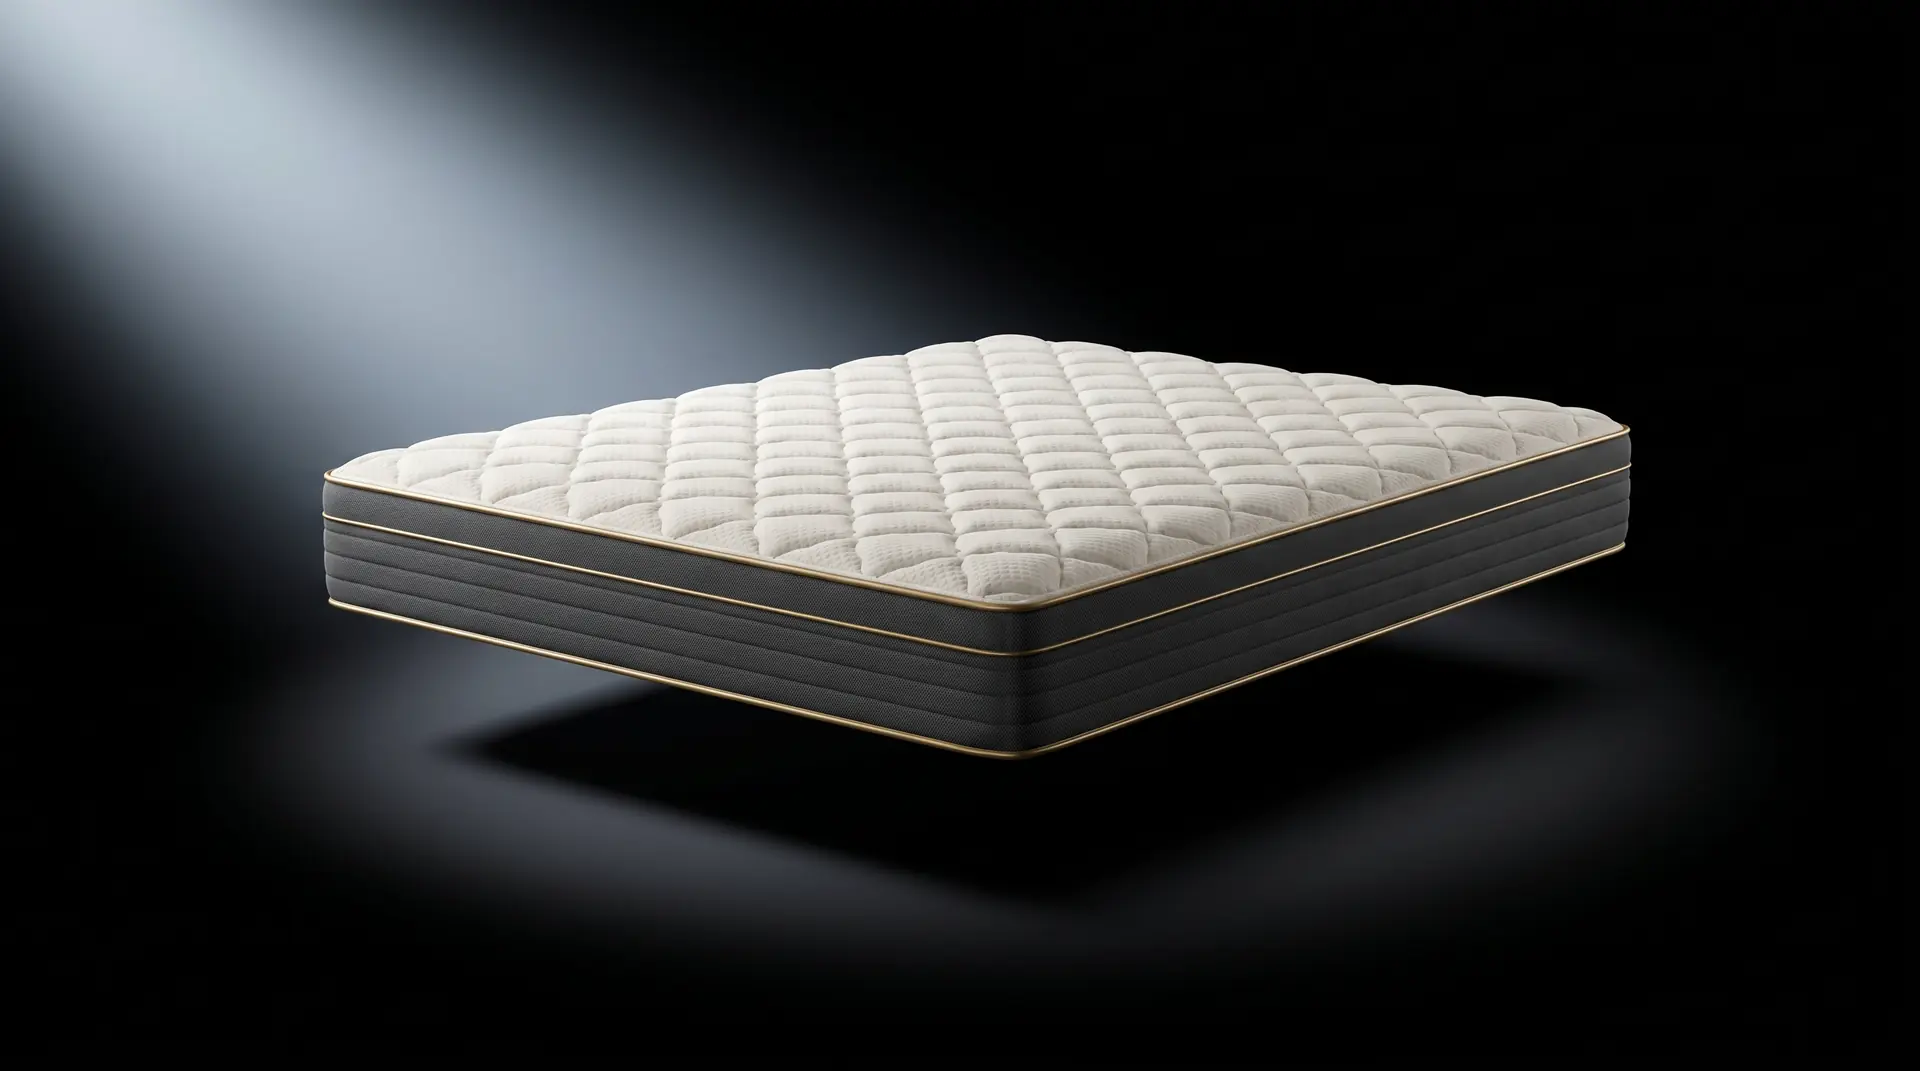
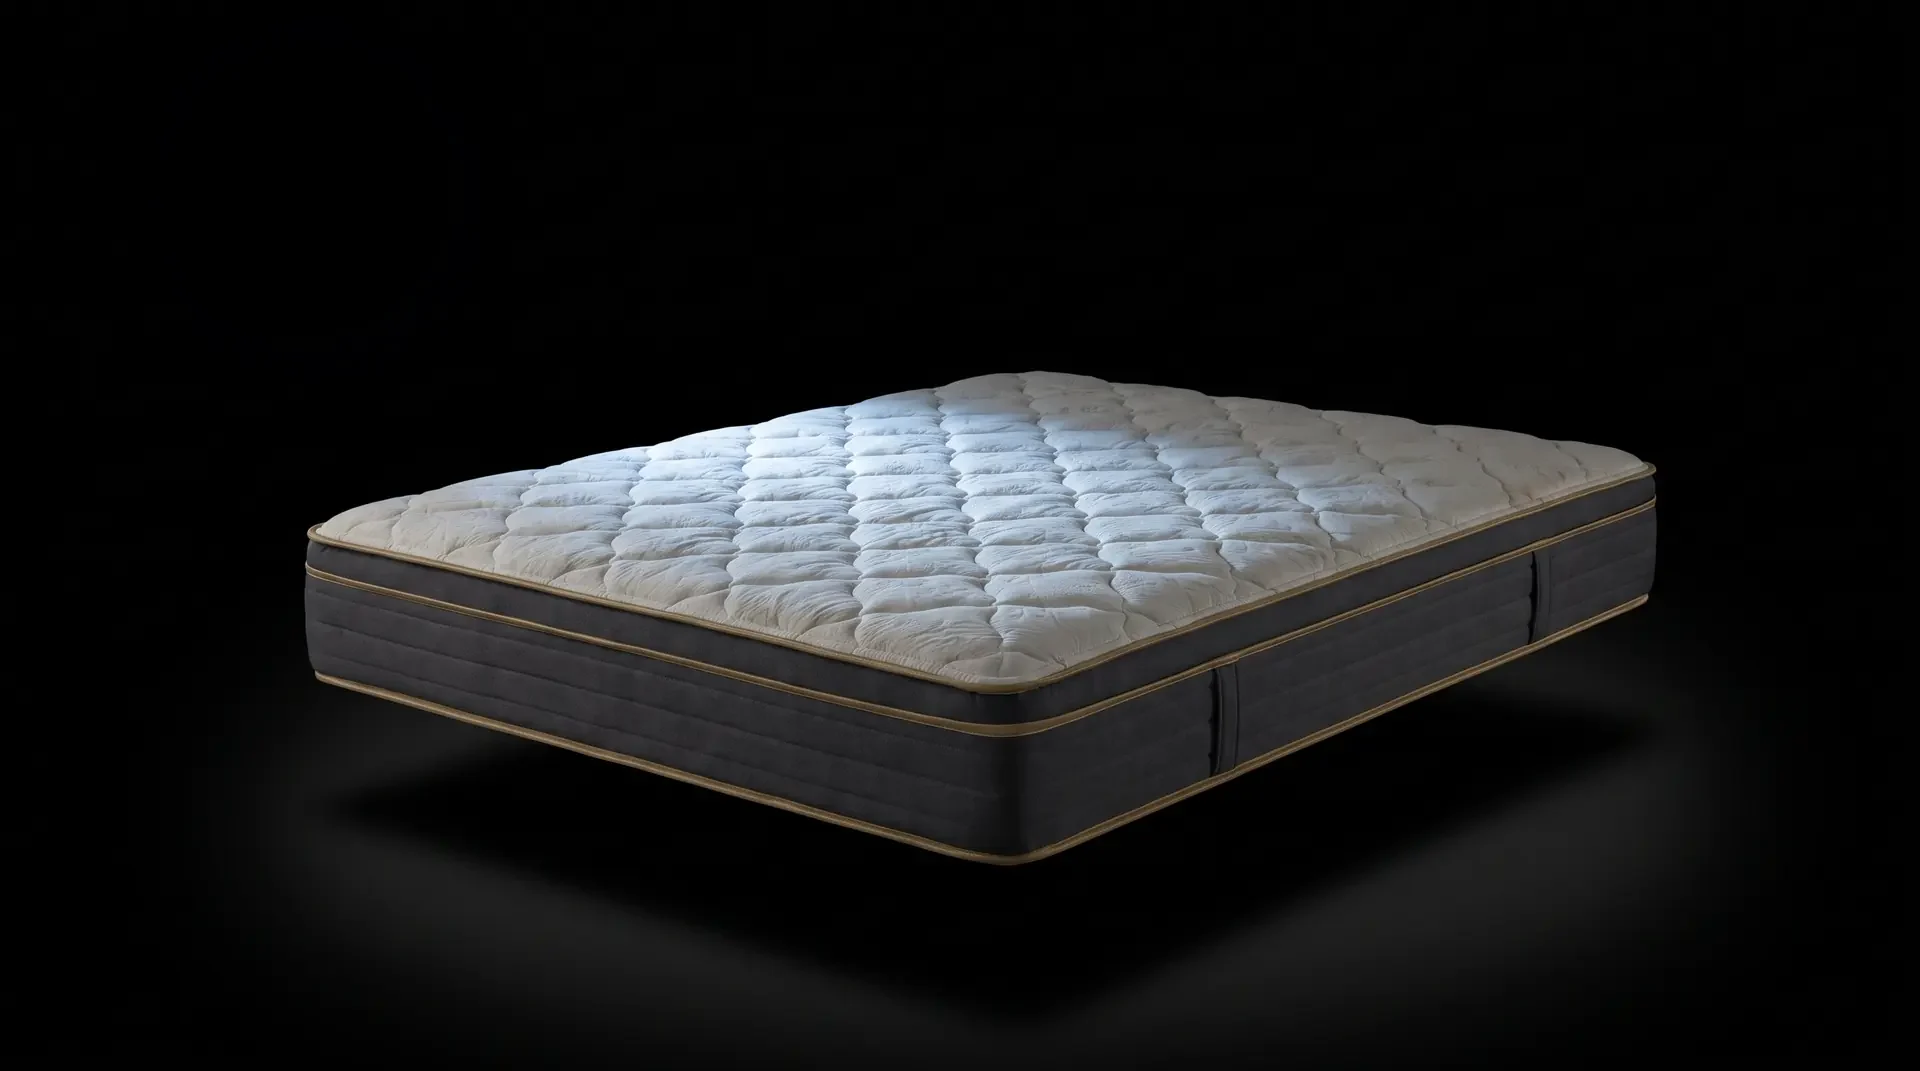
Hero: moon and mattress from one frame, single light axis, press dent
- hero-moon.webp and moon.webp now come from the same Higgsfield shot: the moon
  is cut out with alpha, painted out of the mattress frame, so light on the
  quilting, shadow and moon position agree physically
- one source of truth for the light: --moon-x/--moon-y drive the moon, the
  beam angle (computed to the mattress centre), the light spot and the sheen;
  moon moved to upper-left on mobile to match the baked light direction
- press-dent: pointerdown on the mattress shows a shadowed dent with a cool
  rim toward the moon, follows the pointer while held, elastic return on release
- remove temporary import workflow and img/tmp candidates; README updated

Claude-Session: https://claude.ai/code/session_0121QE7UJEF3LpGs7hpgYDb2

diff --git a/index.html b/index.html
@@ -53,11 +53,11 @@
 
         <!-- продукт: фото проявляется из темноты -->
         <!-- луна и её свет: единственный источник света на входе -->
-        <div class="moon-wrap" id="moonWrap"><span class="moon-glow" id="moonGlow"></span><img class="moon-hero" id="moonHero" src="img/moon.webp" alt="" width="1024" height="1024" decoding="async" fetchpriority="high"></div>
+        <div class="moon-wrap" id="moonWrap"><span class="moon-glow" id="moonGlow"></span><img class="moon-hero" id="moonHero" src="img/moon.webp" alt="" width="260" height="260" decoding="async" fetchpriority="high"></div>
         <div class="moonbeam" id="moonbeam" aria-hidden="true"></div>
         <figure class="product product--hero" id="productHero">
           <div class="product__float">
-            <img src="img/hero-moon.webp" alt="Матрас ELUNA в лунном свете" width="1920" height="1080" decoding="async" fetchpriority="high">
+            <img src="img/hero-moon.webp" alt="Матрас ELUNA в лунном свете" width="1920" height="1071" decoding="async" fetchpriority="high">
             <div class="sheen" id="sheen" aria-hidden="true"></div>
             <div class="dent" id="dent" aria-hidden="true"></div>
           </div>
@@ -230,7 +230,7 @@
         <!-- выбор модели: свет движется к выбранной строке, уровень задаёт силу света -->
         <div class="picker reveal" id="picker">
           <div class="px" id="pxStage" data-lvl="3">
-            <img class="px__moon" src="img/moon.webp" alt="" width="1024" height="1024" loading="lazy" decoding="async">
+            <img class="px__moon" src="img/moon.webp" alt="" width="260" height="260" loading="lazy" decoding="async">
             <div class="px__beam" id="pxBeam" aria-hidden="true"></div>
             <div class="px__floor" aria-hidden="true"></div>
             <figure class="px__item" aria-hidden="true">
@@ -428,7 +428,7 @@
             <svg class="map__lit" viewBox="0 0 1040 578" aria-hidden="true" focusable="false">
               <path d="M619.0 499.7L605.0 506.4L572.7 531.9L562.0 558.1L552.9 558.3L546.2 541.0L515.1 539.8L510.2 509.8L498.2 509.6L500.1 472.9L470.8 446.2L428.9 449.1L400.2 454.4L376.8 421.4L356.8 407.6L318.9 381.4L314.3 378.3L251.4 399.9L252.4 534.7L239.8 536.5L222.7 507.8L206.2 497.5L178.4 505.2L167.6 517.3L166.2 508.4L172.2 493.2L167.6 480.4L139.2 468.0L128.2 435.1L114.7 425.9L113.9 414.0L137.7 417.4L138.6 390.7L159.4 384.8L180.8 390.2L185.2 354.6L180.8 332.0L156.3 333.7L135.6 324.8L107.2 340.9L84.4 348.5L72.0 342.6L74.5 323.8L58.9 299.4L40.8 300.4L20.0 275.6L34.1 247.9L27.0 240.4L46.5 200.3L71.6 221.5L74.7 194.8L125.2 155.0L163.4 154.1L217.3 179.4L246.2 194.2L272.2 178.7L310.9 178.0L342.2 197.0L349.3 186.1L383.7 187.7L389.8 170.4L350.2 145.2L373.6 127.4L369.0 117.4L392.5 107.9L374.9 82.9L386.1 70.4L477.6 57.7L489.5 48.7L550.7 35.2L572.7 20.0L616.6 27.9L624.3 65.8L649.9 56.9L681.3 69.3L679.3 89.3L702.7 87.2L764.0 52.7L755.0 64.2L786.2 92.4L840.9 185.3L853.9 166.1L887.6 187.2L922.7 177.8L936.2 184.4L948.0 205.5L965.1 212.6L975.5 228.1L1007.0 223.2L1020.0 245.6L1001.4 269.9L981.1 273.4L979.9 310.0L966.3 326.6L917.8 314.5L900.2 380.0L887.6 388.1L839.2 402.7L861.2 466.2L844.4 475.8L846.4 496.6L831.3 491.2L819.0 478.1L782.8 474.3L742.2 473.3L733.3 477.3L698.5 461.9L684.6 469.5L680.8 491.1L640.6 478.5L624.5 483.6L619.0 499.7Z"/>
             </svg>
-            <div class="moon" aria-hidden="true"><img src="img/moon.webp" alt="" width="1024" height="1024" loading="lazy" decoding="async"></div>
+            <div class="moon" aria-hidden="true"><img src="img/moon.webp" alt="" width="260" height="260" loading="lazy" decoding="async"></div>
             <button type="button" class="city" data-city="Астана" style="--x:60.62%;--y:30.12%" aria-pressed="false" aria-label="Астана: доставка от 7 дней"><i></i><span>Астана</span></button>
             <button type="button" class="city is-on" data-city="Алматы" style="--x:73.60%;--y:80.29%" aria-pressed="true" aria-label="Алматы: доставка от 7 дней"><i></i><span>Алматы</span></button>
             <button type="button" class="city" data-city="Шымкент" style="--x:56.32%;--y:86.23%" aria-pressed="false" aria-label="Шымкент: доставка от 7 дней"><i></i><span>Шымкент</span></button>

diff --git a/js/main.js b/js/main.js
@@ -270,9 +270,16 @@
   window.addEventListener('resize', sizeSeq);
 
   // угол луча: от луны к центру матраса, в системе conic-gradient (0° = вверх, по часовой)
+  // позиция луны (= источника света) берётся из CSS-переменных --moon-x/--moon-y, чтобы ось была одна
+  const MOON = { x: 12, y: 18 };
+  function readMoon() {
+    const cs = getComputedStyle(root);
+    const x = parseFloat(cs.getPropertyValue('--moon-x')), y = parseFloat(cs.getPropertyValue('--moon-y'));
+    if (!Number.isNaN(x)) MOON.x = x; if (!Number.isNaN(y)) MOON.y = y;
+  }
   function aimBeam() {
-    const mob = window.innerWidth < 900;
-    const mx = (mob ? 0.82 : 0.08) * window.innerWidth, my = (mob ? 0.09 : 0.20) * window.innerHeight;
+    readMoon();
+    const mx = MOON.x / 100 * window.innerWidth, my = MOON.y / 100 * window.innerHeight;
     const tx = 0.5 * window.innerWidth, ty = 0.58 * window.innerHeight;
     const deg = (Math.atan2(tx - mx, -(ty - my)) * 180 / Math.PI + 360) % 360;
     root.style.setProperty('--beam-angle', `${(deg - 16).toFixed(1)}deg`);   // конус шириной 32°, центр на цели
@@ -322,11 +329,9 @@
     const diag = Math.hypot(window.innerWidth, vh);
 
     // свет на фото: радиус в px от диагонали, экспозиция — произведение интро и скролла
-    const mob = window.innerWidth < 900;   // на телефоне луна справа сверху
     // свет идёт из точки луны: та же ось для пятна, луча и блика
-    const mx = mob ? 82 : 8, my = mob ? 9 : 20;
-    root.style.setProperty('--lx', `${mx + P.x * 0.6}%`);
-    root.style.setProperty('--ly', `${my - P.y * 0.5}%`);
+    root.style.setProperty('--lx', `${MOON.x + P.x * 0.6}%`);
+    root.style.setProperty('--ly', `${MOON.y - P.y * 0.5}%`);
     root.style.setProperty('--ls', `${Math.max(0.02, I.lr * S.lr * 2.1).toFixed(4)}`);   // масштаб «дыры» света
     moonbeam.style.opacity = (I.beam * S.eclipse).toFixed(3);
     moonHero.style.opacity = (I.moon * S.eclipse).toFixed(3);
@@ -527,24 +532,30 @@
     // просадка — на картинке: у обёртки .product__float своя CSS-анимация дыхания
     const float = productHero.querySelector('.product__float img');
     if (!dent || !float) return;
-    let last = 0;
-    const down = (e) => {
-      const now = performance.now(); if (now - last < 150) return; last = now;
+    let last = 0, held = false;
+    const place = (e) => {
       const r = productHero.getBoundingClientRect();
       dent.style.setProperty('--dx', `${((e.clientX - r.left) / r.width * 100).toFixed(1)}%`);
       dent.style.setProperty('--dy', `${((e.clientY - r.top) / r.height * 100).toFixed(1)}%`);
-      if (navigator.vibrate) navigator.vibrate(8);
-      if (reduceMotion) { gsap.set(dent, { opacity: .5, scale: 1 }); return; }
-      gsap.killTweensOf([dent, float]);
-      gsap.to(dent, { opacity: .55, scale: 1, duration: .12, ease: 'power2.out' });
-      gsap.to(float, { scale: .992, y: 3, transformOrigin: '50% 60%', duration: .14, ease: 'power2.out' });
     };
+    const down = (e) => {
+      const now = performance.now(); if (now - last < 150) return; last = now;
+      held = true; place(e);
+      if (navigator.vibrate) navigator.vibrate(8);
+      if (reduceMotion) { gsap.set(dent, { opacity: .7, scale: 1 }); return; }
+      gsap.killTweensOf([dent, float]);
+      gsap.to(dent, { opacity: .85, scale: 1, duration: .14, ease: 'power2.out' });
+      gsap.to(float, { scale: .986, y: 5, transformOrigin: '50% 60%', duration: .16, ease: 'power2.out' });
+    };
+    const move = (e) => { if (held) place(e); };   // вмятина идёт за пальцем, пока держишь
     const up = () => {
+      if (!held) return; held = false;
       gsap.killTweensOf([dent, float]);
       gsap.to(dent, { opacity: 0, scale: .6, duration: .5, ease: 'power2.out' });
       gsap.to(float, { scale: 1, y: 0, duration: .9, ease: 'elastic.out(1, 0.45)' });
     };
     productHero.addEventListener('pointerdown', down);
+    productHero.addEventListener('pointermove', move);
     productHero.addEventListener('pointerup', up);
     productHero.addEventListener('pointercancel', up);
     productHero.addEventListener('pointerleave', up);

diff --git a/css/styles.css b/css/styles.css
@@ -27,8 +27,8 @@
   /* сцена — выставляется скриптом */
   --lx: 68%;
   --ly: 42%;
-  --moon-x: 8%;      /* где луна = откуда свет */
-  --moon-y: 20%;
+  --moon-x: 12%;     /* где луна = откуда свет: совпадает с источником света на фото */
+  --moon-y: 18%;
   --beam-angle: 128deg;
   --lr: 0px;          /* радиус светового пятна на фото */
   --soft: 60%;        /* мягкость края пятна */
@@ -290,7 +290,7 @@ body:not(.is-intro) .nav { opacity: 1; transform: none; }
 }
 /* луна в hero: появляется первой, её свет падает на матрас */
 .moon-wrap {
-  position: absolute; z-index: 5; left: var(--moon-x); top: var(--moon-y); width: min(8vw, 11vh); aspect-ratio: 1;
+  position: absolute; z-index: 5; left: var(--moon-x); top: var(--moon-y); width: min(10vw, 14vh); aspect-ratio: 1;
   transform: translate(-50%, -50%) translate3d(var(--mpx, 0px), var(--mpy, 0px), 0);
   pointer-events: none; will-change: transform;
 }
@@ -325,11 +325,13 @@ body:not(.is-intro) .product__float { animation: heroFloat 11s ease-in-out infin
 body:not(.is-intro) .sheen { animation: sheenPass 9s ease-in-out infinite; }
 /* вмятина от нажатия: тёмный центр, светлый ободок со стороны луны */
 .dent {
-  position: absolute; z-index: 2; left: var(--dx, 50%); top: var(--dy, 50%); width: 26vmin; aspect-ratio: 1.6;
+  position: absolute; z-index: 2; left: var(--dx, 50%); top: var(--dy, 50%); width: 30vmin; aspect-ratio: 1.7;
   transform: translate(-50%, -50%) rotate(-12deg) scale(.6); opacity: 0; pointer-events: none;
+  /* вмятина: тень в центре, мягкий ободок света со стороны луны (сверху слева), тень на противоположном крае */
   background:
-    radial-gradient(ellipse at 50% 50%, rgba(0,0,0,.42) 0, rgba(0,0,0,.22) 38%, transparent 62%),
-    radial-gradient(ellipse at 38% 30%, rgba(var(--cool), .35) 0, transparent 34%);
+    radial-gradient(ellipse at 50% 52%, rgba(0,0,0,.6) 0, rgba(0,0,0,.3) 34%, transparent 58%),
+    radial-gradient(ellipse 40% 26% at 36% 26%, rgba(var(--cool), .42) 0, transparent 70%),
+    radial-gradient(ellipse 42% 24% at 66% 78%, rgba(0,0,0,.35) 0, transparent 70%);
   will-change: transform, opacity;
 }
 .product--hero { pointer-events: auto; cursor: pointer; }
@@ -991,8 +993,8 @@ body:not(.is-intro) .sheen { animation: sheenPass 9s ease-in-out infinite; }
   .reveal { transform: none; transition-duration: 1s; }
   .px__shine { animation: none; background-position: 30% 0; }
   .px__beam.is-flare { animation: none; }
-  :root { --moon-x: 82%; --moon-y: 9%; }
-  .moon-wrap { width: 13vw; }
+  :root { --moon-x: 14%; --moon-y: 8%; }   /* свет на фото идёт сверху слева — луна там же */
+  .moon-wrap { width: 15vw; }
   .sheen { display: none; }
   .px__moon { width: 20%; }
   .delivery { grid-template-columns: 1fr; gap: 28px; }

diff --git a/README.md b/README.md
@@ -15,6 +15,7 @@ npx http-server -p 8080 .
 Первый экран — космическая темнота: луна (фото, Higgsfield) всходит первой и дальше чуть дрейфует с пульсирующим ореолом, её луч ложится на матрас, матрас подплывает к свету, дышит и отзывается на указатель (наклон, сдвиг, блик); небо на двух canvas (статичный слой со звёздами разной
 яркости и цвета, ореолами и полосой Млечного Пути, рисуется один раз; поверх — мерцание и редкие
 метеоры; параллакс по скроллу), туманности, кольцо затмения.
+Луна и матрас — один кадр (Higgsfield): луна вырезана из него с альфой (`img/moon.webp`), в `img/hero-moon.webp` она закрашена, поэтому свет на стёжке, тень и положение луны совпадают физически. Позиция луны задаётся одной парой переменных `--moon-x/--moon-y` (десктоп 12 % / 18 %, телефон 14 % / 8 %): на неё ставятся луна, луч (угол считается в JS к центру матраса), центр светового пятна и блик. Нажатие на матрас (мышь или палец) слегка продавливает его в точке касания: вмятина с тенью и ободком света со стороны луны идёт за указателем, а при отпускании матрас упруго возвращается.
 Фотореалистичный матрас проявляется постепенно: свет расширяется радиальной маской,
 экспозиция поднимается, затем над продуктом возникает имя ELUNA.
 
